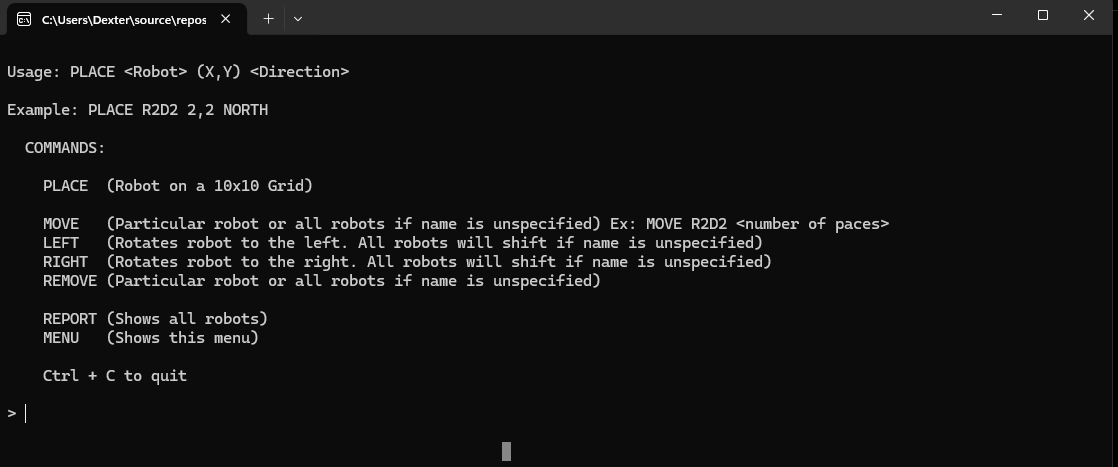
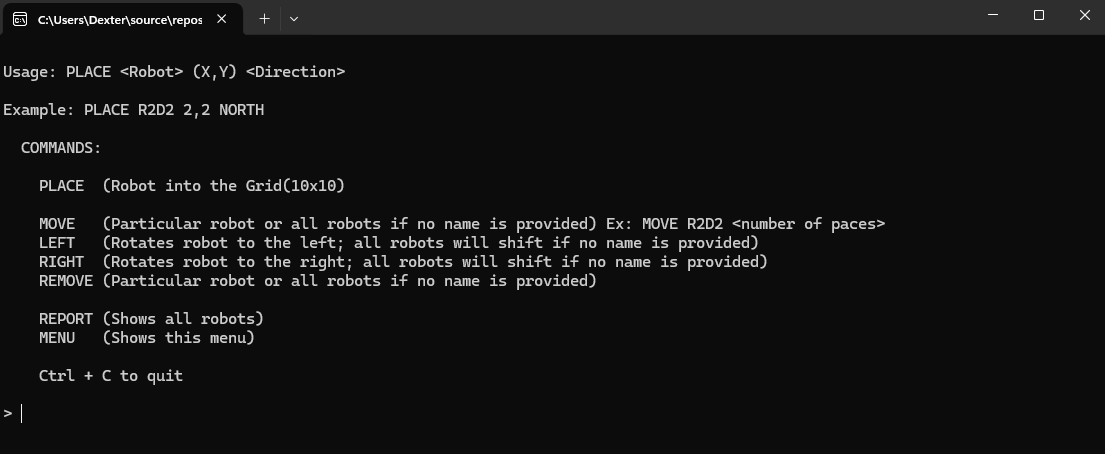
Update ReadMe and Menu

diff --git a/Menu.h b/Menu.h
@@ -14,11 +14,11 @@ class Menu {
         std::cout << "\nUsage: PLACE <Robot> (X,Y) <Direction>";
         std::cout << "\n\nExample: PLACE R2D2 2,2 NORTH";
         std::cout << "\n\n  COMMANDS:";
-        std::cout << "\n\n    PLACE  (Robot on a 10x10 Grid)";
-        std::cout << "\n\n    MOVE   (Particular robot or all robots if name is unspecified) Ex: MOVE R2D2 <number of paces>";
-        std::cout << "\n    LEFT   (Rotates robot to the left. All robots will shift if name is unspecified)";
-        std::cout << "\n    RIGHT  (Rotates robot to the right. All robots will shift if name is unspecified)";
-        std::cout << "\n    REMOVE (Particular robot or all robots if name is unspecified)";
+        std::cout << "\n\n    PLACE  (Robot into the Grid(10x10)";
+        std::cout << "\n\n    MOVE   (Particular robot or all robots if no name is provided) Ex: MOVE R2D2 <number of paces>";
+        std::cout << "\n    LEFT   (Rotates robot to the left; all robots will shift if no name is provided)";
+        std::cout << "\n    RIGHT  (Rotates robot to the right; all robots will shift if no name is provided)";
+        std::cout << "\n    REMOVE (Particular robot or all robots if no name is provided)";
         std::cout << "\n\n    REPORT (Shows all robots)";
         std::cout << "\n    MENU   (Shows this menu)";
         std::cout << "\n\n    Ctrl + C to quit";

diff --git a/README.md b/README.md
@@ -1,20 +1,22 @@
 # Marvin (The Paranoid Android)
-A simple toy robot console application written in C++. A user can issue commands to create a robot onto a two-dimensional grid environment and control its movement.
+A simple toy robot console application written in C++. User can issue commands to create a robot onto a two-dimensional grid environment and control its movement.
 
 ![Menu](SimulatorMenu.png)
 
 ## Features
 
-- Place a robot onto the cartesian plane using X and Y coordinates with the direction the robot will be facing. (e.g., North, South, West, and East).
-- Move robot(s) one unit forward from its relative position in the direction the robot is currently facing.
-- Rotate the robot at a 90-degree angle in its specified direction - from left to right, and vice versa.
-- Report the robot's info such as id, name, direction, and position.
+- Place a robot onto the cartesian plane using X and Y coordinates with direction that the robot will be facing. (e.g., North, South, West, and East).
+- Move robot(s) one unit forward from its relative position to the direction the robot is currently facing.
+- Rotate robot(s) in a 90-degree angle from left to right and vice versa.
+- Report the robot's info: ID, name, direction, and position.
+- Move particular robot to more than one block e.g. `Move Marvin 2 blocks`
+
 
 ## Getting started
 Prerequisites:
-- This is a Windows console application. Your machine should be running on Windows 11 or newer.
-- Install the latest Visual Studio IDE available online with at least C++17 compiler. The community edition should be sufficient.
-- Download the code or clone it:
+- This is a Windows console application, your machine should be running on Windows 11 or newer.
+- Install the latest Visual Studio IDE available online with at least C++17 compiler. The community edition will suffice.
+- Download or clone the repo:
 	```
 	git@github.com:chromagnonman/Marvin.git
 	```
@@ -27,12 +29,10 @@ Prerequisites:
 	![TestExplorer](TestExplorer.png)
 
 ## Future Improvements
-- Issuing a command to a particular robot using its name e.g. `Move C3PU`.
 - Piping commands i.e. `Move <robot id/name> left`
-- Move robot(s) to more than just one block e.g. `Move Marvin 2 blocks`
 - Support for non bipedaled robots that may move faster (more than one block at a time) and can rotate in 180 or 360 degrees.
 
-## Caveat
+## Caveats
 - When executing the unit tests, you may encounter linker errors. You need to explicitly add the `.obj` files (Marvin, RobotGrid, and RobotSimulator) to the `Additional Dependencies`
   of the `RobotSimulatorTest` project.
 
